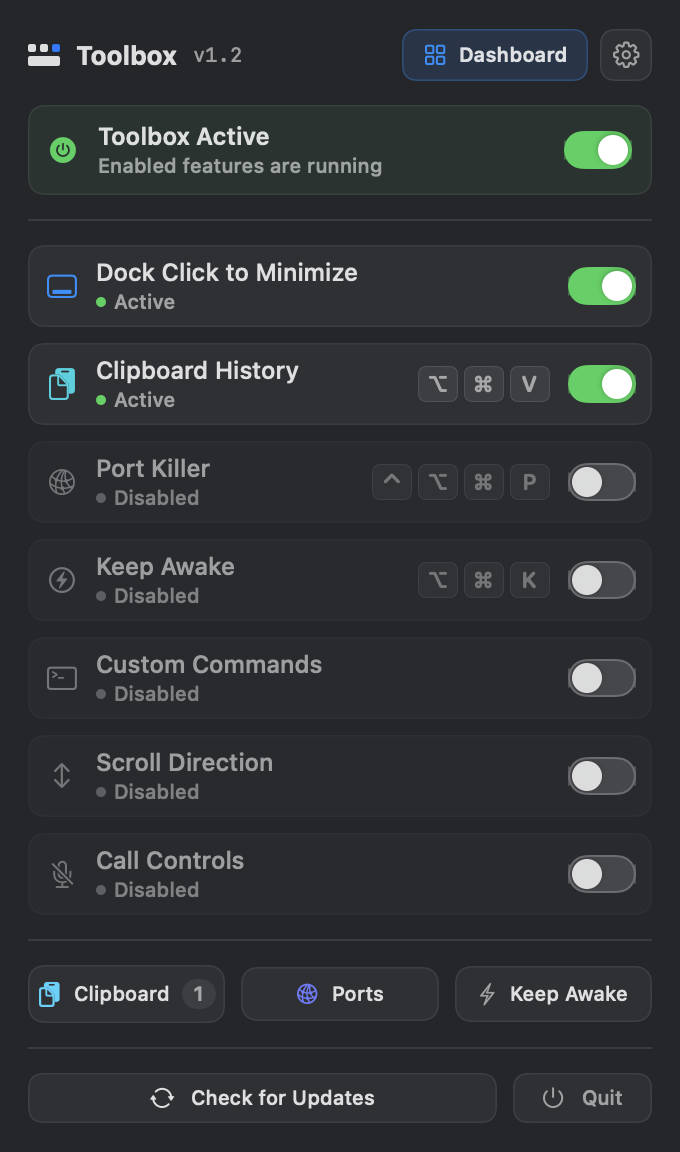
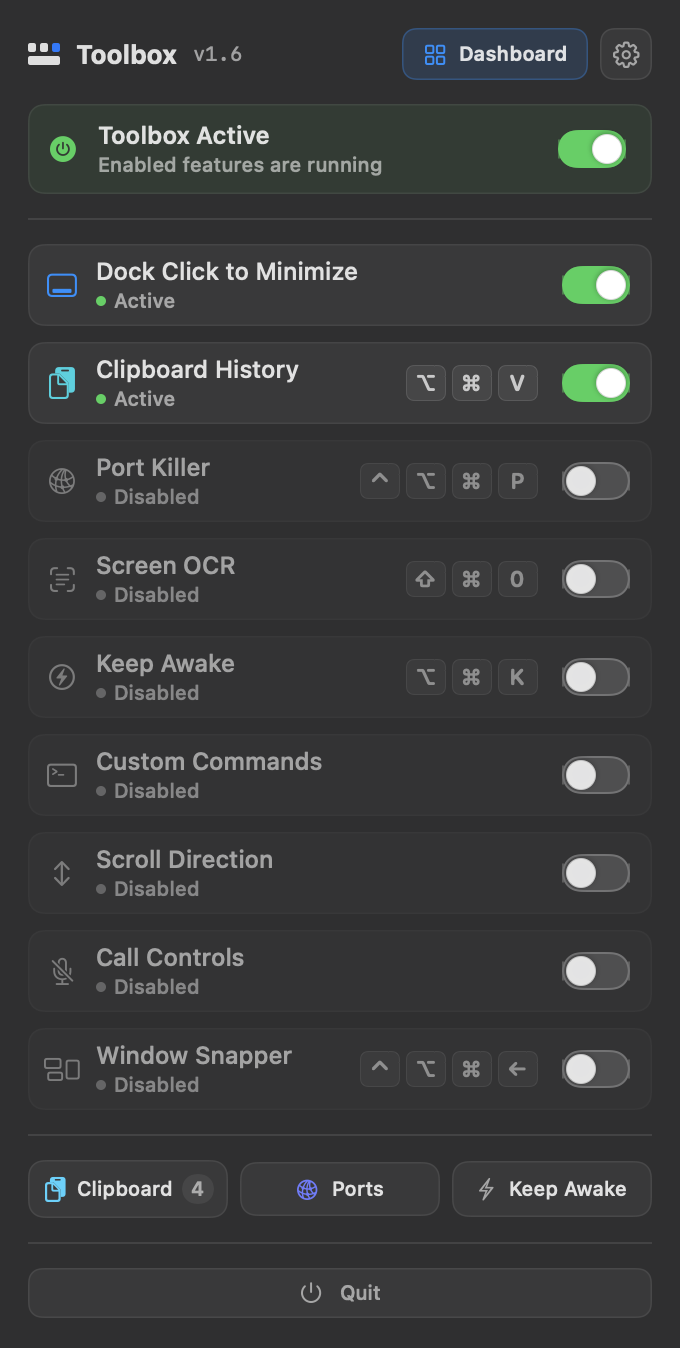
Docs & Screenshots: update README, screenshots, and feature docs for v1.6

diff --git a/Sources/Toolbox/Core/SnapshotRunner.swift b/Sources/Toolbox/Core/SnapshotRunner.swift
@@ -51,7 +51,7 @@ enum SnapshotRunner {
         )
         saveViewSnapshot(
             MainWindowController.makeRootView(navState: navDashboard),
-            size: NSSize(width: 1140, height: 760),
+            size: NSSize(width: 1140, height: 870),
             to: outURL.appendingPathComponent("dashboard_active_default_width.png")
         )
         saveViewSnapshot(

diff --git a/README.md b/README.md
@@ -1,6 +1,6 @@
 # Toolbox: macOS quality-of-life utilities
 
-Lightweight, native macOS utilities for Dock window toggling, clipboard history, port management, screen OCR (text & QR), call mic/video controls, keyboard-lock mode, display sleep control, independent mouse scroll direction, and global shortcuts.
+Lightweight, native macOS utilities for Dock window toggling, clipboard history, port management, screen OCR (text & QR), call mic/video controls, window snapping & workspace profiles, keyboard-lock mode, display sleep control, independent mouse scroll direction, and global shortcuts.
 
 **[Download .dmg](https://github.com/ssa17/toolbox/releases/latest/download/Toolbox.dmg)** · [Sponsor on GitHub](https://github.com/sponsors/ssa17) · [Support on Ko-fi](https://ko-fi.com/ssa17)
 
@@ -18,21 +18,31 @@ Toolbox checks for updates automatically via Sparkle and installs them in place.
 
 ## What you get
 
+- **Window Snapper (`⌃ ⌥ ⌘ ←/→/↑/↓`):** snap windows cleanly with magnetic edges & corners (edge-to-edge Maximize, Dock-safe bottom edge), `⇧`-hold full-grid overlays with seam-proximity spanning, a Windows 11-style **Top Edge Panel** with **frosted glass panes** (live window thumbnails when Screen Recording is granted or app icon + name fallback), smooth window glide animations, hold-to-preview keyboard shortcuts (plus a Rectangle-style preset), per-display templates & a 1:1 on-screen divider editor with live percentages, 1:1 on-screen previews when adjusting style & trigger presets, and one-click **Workspace Profiles** with shortcut toggle-restore and display-topology auto-apply.
 - **Dock Click to Minimize:** click the active app's Dock icon to hide its windows cleanly (Windows taskbar style, without cluttering the Dock's minimized tray) and click again to bring them straight back. Supports send-behind, minimize-tray modes, single/double-click, and per-app exclusions.
-- **Clipboard History (`⌘ ⌥ V`):** searchable floating clipboard dropdown with keyboard navigation (`↑`/`↓`/`⏎`/`Esc`), `⌘ 1`–`⌘ 9` quick-paste, full-text preview, pinning with custom titles, password-manager filtering, customizable history limits (`1–200`), optional auto-paste, and optional persistence across restarts.
+- **Clipboard History (`⌘ ⌥ V`):** searchable floating clipboard dropdown split into **Pinned** and **Recent** sections with keyboard navigation (`↑`/`↓`/`⏎`/`Esc`), drag or `⌘ ↑`/`⌘ ↓` pin reordering driving `⌘ 1`–`⌘ 9` quick-paste, full-text preview, multiline counts, relative timestamps, password-manager filtering, customizable history limits (`1–200`), optional auto-paste, and optional persistence across restarts.
 - **Port Killer (`⌃ ⌥ ⌘ P`):** inspect active listening TCP ports, pin favorite dev ports, and stop or force-kill stuck servers in one click.
 - **Screen OCR (`⇧ ⌘ 0`):** drag-select any area of the screen to copy unselectable text or decode QR/barcodes with on-device Apple Vision OCR — fast/accurate modes, line-break and toast options, plus a recent-captures list in Settings.
-- **Keep Awake (`⌘ ⌥ K`):** reads your Mac's `pmset` display sleep timeout and nudges the cursor just before sleep and/or holds an IOKit power assertion for quick timers (`15m`, `30m`, `1h`, `2h`) or indefinitely.
-- **Keyboard Lock:** temporarily lock your keyboard (including media, volume, and brightness keys) and mouse/trackpad input for `10s`–`3m` with a center-screen countdown and `Hold ⌃ ⌥ ⌘ Esc (3s)` emergency unlock.
+- **Keep Awake (`⌘ ⌥ K`):** reads your Mac's `pmset` display sleep timeout and nudges the cursor just before sleep and/or holds an IOKit power assertion for quick timers (`15m`, `30m`, `1h`, `2h`, `4h`) or indefinitely.
+- **Keyboard Lock:** temporarily lock your keyboard (including media, volume, and brightness keys) and mouse/trackpad input for `10s`–`5m` with a center-screen countdown and `Hold ⌃ ⌥ ⌘ Esc (3s)` emergency unlock.
 - **Custom Commands:** bind global hotkeys to shell commands, applications, URLs, or text snippets with optional toast feedback.
 - **Scroll Direction:** invert classic notched mouse wheels while leaving Apple trackpads and smooth-scroll mice on your system setting.
 - **Call Controls (`⌃ ⌥ ⌘ M` / `⌃ ⌥ ⌘ V`):** unified global Mic and Video shortcuts that mute your system microphone and control FaceTime, Microsoft Teams, Zoom, Slack, Google Meet, Discord, or custom call apps, paired with a draggable floating Mic/Camera status pill, output device cycling, and auto-mute while typing.
-- **Menu-bar item & dropdown:** pause or resume all modules at once, toggle and reorder which features or quick actions appear in the menu bar, check Clipboard count or Ports, toggle Keep Awake, and open Dashboard or Settings in one click.
+- **Menu-bar item & dropdown:** frosted high-contrast popover with hover highlights, quick apply/preview for **Workspace Profiles**, smooth section expand/collapse, pause/resume toggle, customizable & reorderable modules/quick actions, and automatic background Sparkle update checks.
+- **Responsive Window, Navigation & Text Size:** shrinks smoothly down to `340×300 pt` with an auto-collapsing sidebar, **Compact / Detailed** Dashboard cards, back/forward history navigation (`⌘ [` / `⌘ ]`, toolbar arrows, mouse buttons, trackpad swipes), and live **Small / Standard / Large / Extra Large** text scaling in Settings.
 - **Configuration as code:** all settings live in `~/.config/toolbox/config.json` with automatic hot-reload and an in-app JSON editor. Pinned clipboard entries persist in `~/.config/toolbox/pinned_clipboard.json`.
 
+### Screenshots
+
 <p align="center">
-  <img src="docs/screenshots/menubar.png" width="320" alt="Toolbox status bar menu" />
+  <img src="docs/screenshots/menubar.png" width="300" alt="Toolbox status bar menu" />
+  &nbsp;&nbsp;&nbsp;
+  <img src="docs/screenshots/clipboard.png" width="380" alt="Toolbox clipboard history popover" />
 </p>
+
+| Top Edge Panel | Frosted Glass Panes | 1:1 Divider Editor |
+| :---: | :---: | :---: |
+| ![Top Edge Panel](docs/screenshots/window-snapper-top-panel.png) | ![Frosted Glass Panes](docs/screenshots/window-snapper-glass-panes.png) | ![1:1 Divider Editor](docs/screenshots/window-snapper-editor.png) |
 
 ## Requirements
 
@@ -85,7 +95,7 @@ See [EXTENDING.md](EXTENDING.md) to add a new module, [docs/testing.md](docs/tes
 Sources/Toolbox/
 ├── ToolboxApp.swift          app entry point, CLI flags, single-instance guard
 ├── Core/                     module registry, config watcher, hotkeys, permissions, Sparkle, self-tests
-├── Modules/                  DockMinimize, Clipboard, PortKiller, ScreenOCR, KeepAwake, CleanLock, CustomCommands, ScrollDirection, CallControls
+├── Modules/                  DockMinimize, Clipboard, PortKiller, ScreenOCR, KeepAwake, CleanLock, CustomCommands, ScrollDirection, CallControls, WindowSnapper
 └── UI/                       dashboard, sidebar shell, menu bar popover, settings, JSON editor
 scripts/build-app.sh          builds, signs, and notarizes build/Toolbox.app
 scripts/make-dmg-bg.mjs       generates the Retina DMG installer background

diff --git a/docs/feature-specs/window_snapper.md b/docs/feature-specs/window_snapper.md
@@ -121,8 +121,8 @@ This unified renderer powers **four visual preview modes**:
 1. **Edge & Corner Magnetic Pull:**
    - Moving the cursor within `edgeProximityPoints` (default `12 pt`; `0` requires touching the screen edge) of a display edge or corner shows the Single-Zone Drag Preview:
      - Left / Right edges → Left Half / Right Half (or leftmost / rightmost column of the display's active layout).
-     - Top edge → Maximize (default), or Top Half when **Top / Bottom Halves** is enabled in *Advanced & Appearance*.
-     - Bottom edge → Bottom Half when **Top / Bottom Halves** is enabled in *Advanced & Appearance*.
+     - Top edge → Maximize (edge-to-edge usable area).
+     - Bottom edge → Left free for the Dock.
      - Top-Left / Top-Right / Bottom-Left / Bottom-Right corners (configurable corner band `default 48 pt`) → Quadrants.
 2. **Modifier-Hold Full-Grid Overlay (`⇧` + Drag):**
    - Press and hold the Grid Modifier (`⇧` by default; `flagsChanged` updates the overlay immediately even mid-drag) to illuminate all zones on the cursor's display with multi-zone spanning.
@@ -155,7 +155,7 @@ Following [Toolbox Feature Roadmap](../feature-roadmap.md) Checklist #4, default
 | Top Half *(repeat cycles 1/2 → 2/3 → 1/3)* | `⌃ ⌥ ⌘ ↑` | `⌃ ⌥ ↑` | — |
 | Bottom Half *(repeat cycles 1/2 → 2/3 → 1/3)* | `⌃ ⌥ ⌘ ↓` | `⌃ ⌥ ↓` | — |
 | Top-Left / Top-Right / Bottom-Left / Bottom-Right | `⌃ ⌥ ⌘ 1–4` | `⌃ ⌥ U / I / J / K` | Quadrants |
-| Maximize (Fill Usable Area) | `⌃ ⌥ ⌘ ↩` (`"return"`) | `⌃ ⌥ ↩` | Respects outer margins |
+| Maximize (Fill Usable Area) | `⌃ ⌥ ⌘ ↩` (`"return"`) | `⌃ ⌥ ↩` | Fills usable area edge-to-edge |
 | Center | `⌃ ⌥ ⌘ C` | `⌃ ⌥ C` | Configurable fraction |
 | Move to Previous / Next Display | `⌃ ⌥ ⌘ [` / `⌃ ⌥ ⌘ ]` | `⌃ ⌥ ⌘ ←` / `⌃ ⌥ ⌘ →` | Preserves normalized zone |
 | Restore Pre-Snap Size (Un-snap) | `⌃ ⌥ ⌘ ⌫` (`"delete"`) | `⌃ ⌥ ⌫` | Also cancels active keyboard preview |

diff --git a/EXTENDING.md b/EXTENDING.md
@@ -26,4 +26,4 @@ Toolbox is structured so both human developers and AI agents can add a new utili
 
 ## Planned Modules & Feature Specs
 
-See **[`docs/feature-roadmap.md`](docs/feature-roadmap.md)** for the rollout overview and the shared implementation checklist every module must follow, and **[`docs/feature-specs/`](docs/feature-specs/)** for the detailed per-feature specs (user flows, macOS APIs, config schemas, self-test plans, edge cases). Most of the originally planned modules (Port Killer, Keyboard Lock, Screen OCR, and Call Controls — the latter scoped early on as "AudioGuard") have already shipped; the **Status** column in the roadmap's overview table is the source of truth for what remains.
+See **[`docs/feature-roadmap.md`](docs/feature-roadmap.md)** for the rollout overview and the shared implementation checklist every module must follow, and **[`docs/feature-specs/`](docs/feature-specs/)** for the detailed per-feature specs (user flows, macOS APIs, config schemas, self-test plans, edge cases). Most of the originally planned modules (Port Killer, Keyboard Lock, Screen OCR, Call Controls — scoped early on as "AudioGuard", and Window Snapper) have already shipped; the **Status** column in the roadmap's overview table is the source of truth for what remains.

diff --git a/docs/testing.md b/docs/testing.md
@@ -62,3 +62,4 @@ Every bug fix or behavior change must add or extend an assertion in `Sources/Too
 - Master ON/OFF pause & resume lifecycle + instant zero-animation popover (`testMasterTogglePauseResumeAndInstantPopover`)
 - Clipboard capture, deduplication, concealed types, pinning, and non-activating `NSPanel` behavior
 - `pmset` parsing and `KeepAwakeModule` activation/deactivation
+- Window Snapper geometry, drag lifecycle, style/trigger previews, and divider editor assertions in `SelfTestRunner.swift`
